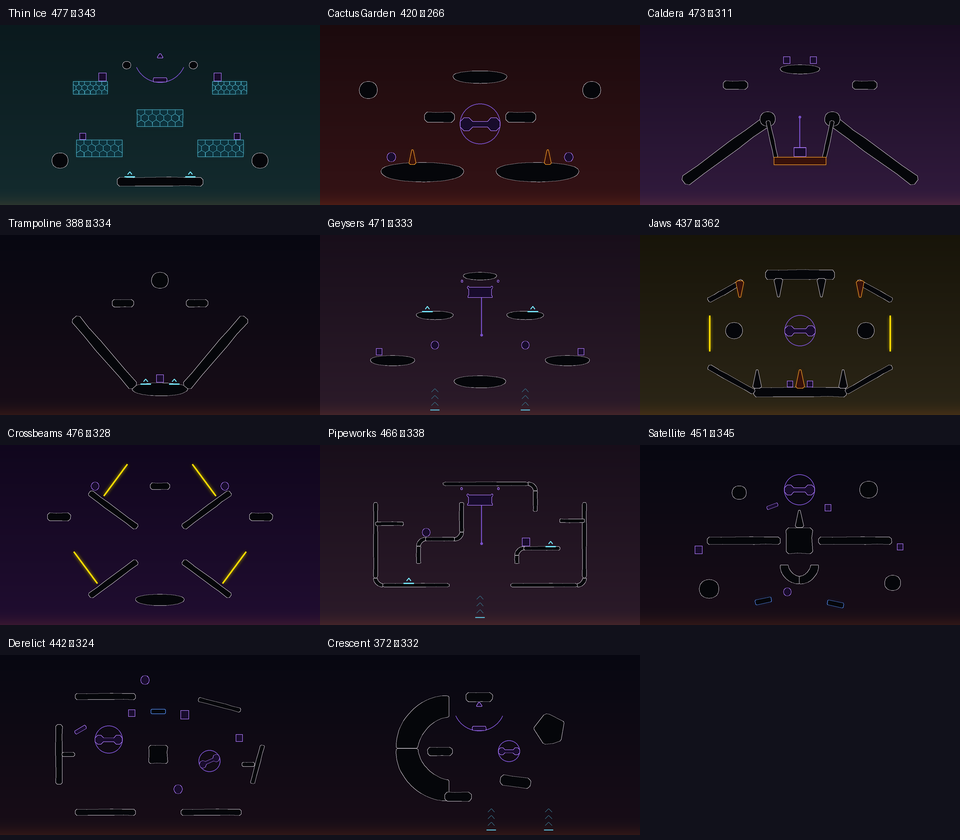
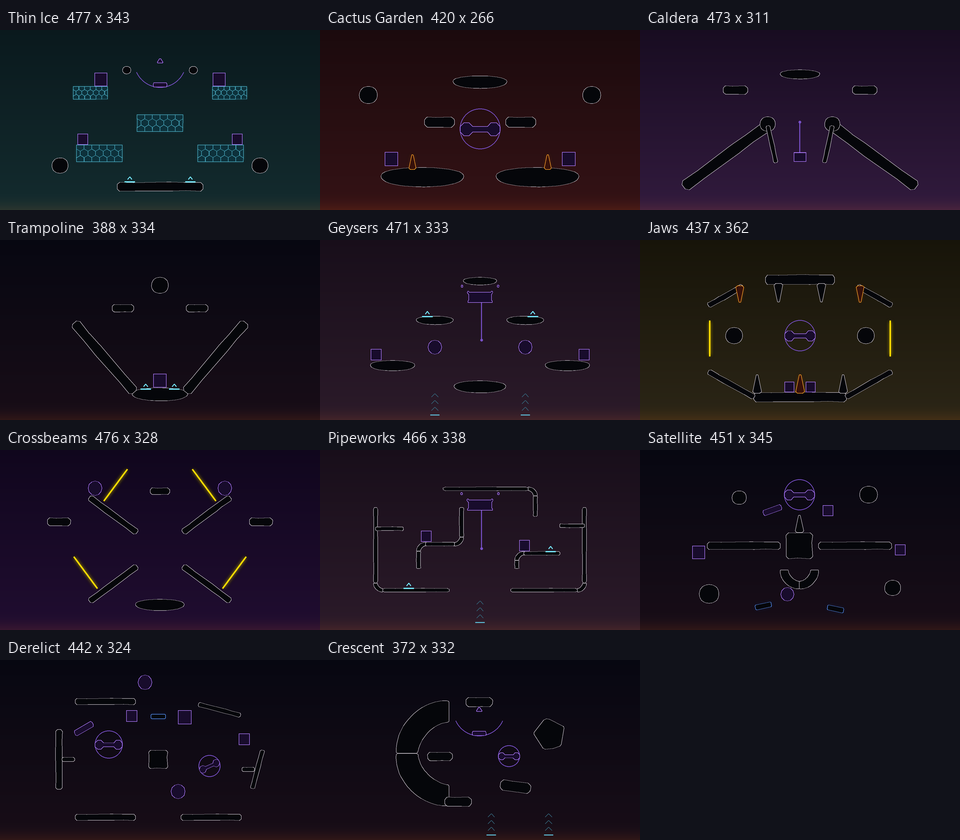
Keep crates full size, fix Cactus and Caldera, show Satellite's side lava
Crates and balls keep their prefab size on the compact maps, as on the
base-game arenas; each still rests where its scaled copy did, and parts or
spawns that the larger crates crowded on Thin Ice, Trampoline, Geysers, Jaws,
Pipeworks and Derelict moved to clear the checker.

Cactus Garden's rolling balls become crates. Caldera loses its crater lava and
the crates by the rare weapon. On maps with lava on every side, the host moves
the four walls in to 30 units past the camera box, like the base-game
zero-gravity arenas, so Satellite and Derelict show them.

diff --git a/surge/Maps/Tools/layouts.py b/surge/Maps/Tools/layouts.py
@@ -1,8 +1,9 @@
 """Source of the Surge map layouts: writes surge/Maps/Layouts/<id>.json, and with --preview draws each map.
 
 Coordinates are world units in the game's custom map scene (MapEditorBase). The playable box is about
-x -500..500, y -222..381; the bottom lava starts at y -222. Element names are the map editor's prefab names.
-Each map also gets a camera box fitted to its geometry, with the margins of the base-game arenas.
+x -500..500, y -222..381, where the lava starts. Element names are the map editor's prefab names.
+Each map also gets a camera box fitted to its geometry, with the margins of the base-game arenas. On maps with lava
+on every side, the game moves the four walls in to LAVA_GAP past that box (SurgeMaps.FitLava).
 Run: py surge/Maps/Tools/layouts.py --shapes <folder from shapes.py> [--preview] [--only id,id]
 """
 
@@ -78,7 +79,8 @@ def scaled(e, f):
 
 def surge_map(id, name, background, lava, elements, players, enemies, weapons, rare=(), beginner=False, scale=1.0,
               zero_gravity=False, parts=()):
-    """Coordinates are written at full size; scale shrinks the whole arena toward SCALE_PIVOT."""
+    """Coordinates are written at full size; scale shrinks the whole arena toward SCALE_PIVOT.
+    Loose crates and balls keep their prefab size, as on every base-game arena."""
     assert len(players) == 4, f"{id}: needs 4 player spawns"
     assert len(enemies) == ENEMY_SPAWN_COUNT, f"{id}: needs {ENEMY_SPAWN_COUNT} enemy spawns"
     px, py = SCALE_PIVOT
@@ -92,7 +94,11 @@ def surge_map(id, name, background, lava, elements, players, enemies, weapons, r
         items = [scaled(e, scale) for e in items]
         for g in parts:
             g["x"], g["y"] = round(px + (g["x"] - px) * scale, 2), round(py + (g["y"] - py) * scale, 2)
-            g["s"] = round(g["s"] * scale, 3)
+            if g["o"] in LOOSE:
+                # Its bottom stays where the scaled part's would have rested
+                g["y"] = round(g["y"] + LOOSE_HALF_HEIGHT[g["o"]] * g["s"] * (1 - scale), 2)
+            else:
+                g["s"] = round(g["s"] * scale, 3)
     MAPS.append({
         "id": id, "name": name, "background": background, "lava": lava, "beginner": beginner,
         "zeroGravity": zero_gravity, "elements": items, "parts": parts,
@@ -150,6 +156,8 @@ GADGET_SCALE = {"Box A": 1, "Box B": 1, "Box Wide": 1, "Ball": 1, "Big Spinner":
                 "HingePlatform": 2}
 # Loose bodies, which only have to start clear; like the base game's, they stay lost until the level reloads
 LOOSE = ("Box A", "Box B", "Box Wide", "Ball")
+# Their collider half-heights at prefab scale
+LOOSE_HALF_HEIGHT = {"Box A": 10.1, "Box B": 12.6, "Box Wide": 5.3, "Ball": 13.4}
 # Gadgets that hang under gravity, so they stay upright and need a gravity map
 HANGING = ("Swing", "SuspendedPrism", "DescendingCage", "HingePlatform")
 # Colliders that stay put while the rest of the gadget moves: anchors and hooks
@@ -200,11 +208,11 @@ surge_map(
     ],
     players=[(-40, 147), (40, 147), (-45, -74), (45, -74)],
     enemies=[(-360, 100), (360, 100), (-250, -135), (250, -135), (-360, 265), (360, 265)],
-    weapons=[(-55.0, -80.0), (55.0, -80.0), (-200.0, 38.0), (200.0, 38.0), (-240, 234), (240, 234)],
+    weapons=[(-55.0, -80.0), (55.0, -80.0), (-200.0, 38.0), (200.0, 38.0), (-255, 234), (255, 234)],
     rare=[(0, 147)],
     # Crates ride the shelves down when the ice breaks; a swing hangs between the top footholds
     parts=[
-        gadget("Box A", -255, 40), gadget("Box A", 255, 40), gadget("Box B", -190, 236), gadget("Box B", 190, 236),
+        gadget("Box A", -255, 40), gadget("Box A", 255, 40), gadget("Box B", -195, 236), gadget("Box B", 195, 236),
         gadget("Swing", 0, 305, s=0.6),
     ],
 )
@@ -222,30 +230,27 @@ surge_map(
     enemies=[(-365, 0), (365, 0), (-250, 235), (250, 235), (0, -199), (0, 267)],
     weapons=[(-330.0, 160.0), (330.0, 160.0), (-120.0, 76.0), (120.0, 76.0), (-100.0, -85.0), (100.0, -85.0)],
     rare=[(0, 192)],
-    # Tumbleweeds roll off the outer islands, and a windmill turns over the central gap
+    # Crates sit on the outer islands, and a windmill turns over the central gap
     parts=[
-        gadget("Ball", -262, -78), gadget("Ball", 262, -78), gadget("Big Spinner", 0, 20, motor=30),
+        gadget("Box A", -262, -78), gadget("Box A", 262, -78), gadget("Big Spinner", 0, 20, motor=30),
     ],
 )
 
-# A volcano with a magma pool in its crater and ledges above the rim
+# A volcano with an open crater and ledges above the rim
 surge_map(
     "caldera", "Caldera", MOUNTAIN, LAVA_BOTTOM, scale=0.58,
     elements=[
         bar(-360, -150, -100, 40), bar(360, -150, 100, 40),
         el("Ballish", -100, 45, 0, 0.8), el("Ballish", 100, 45, 0, 0.8),
         bar(-100, 40, -75, -75), bar(100, 40, 75, -75),
-        el("DeathZoneLongBoi", 0, -85, 0, 0.4),
         el("Platform", -200, 150, 0, 1.2), el("Platform", 200, 150, 0, 1.2), el("Pancake", 0, 200),
     ],
     players=[(-250, -26), (-150, 45), (150, 45), (250, -26)],
     enemies=[(-370, -40), (370, -40), (-300, 265), (300, 265), (135, 235), (-17, 293)],
     weapons=[(-200, 178), (200, 178), (-305, -75), (305, -75), (-165, 30), (165, 30)],
     rare=[(0, 253)],
-    # A lift rises out of the crater while something stands on it, and crates sit beside the rare weapon
-    parts=[
-        gadget("Moving Platform B", 0, -52), gadget("Box A", -41.2, 227.3), gadget("Box A", 41.2, 227.3),
-    ],
+    # A lift rises out of the crater while something stands on it
+    parts=[gadget("Moving Platform B", 0, -52)],
 )
 
 # A bowl with jump pads at the bottom that throw spiders up into the fight
@@ -257,7 +262,7 @@ surge_map(
         el("Platform", -130, 170, 0, 1.2), el("Platform", 130, 170, 0, 1.2), el("Ballish", 0, 250),
     ],
     players=[(-130, -30), (-200, 52), (130, -30), (200, 52)],
-    enemies=[(-315, -50), (315, -50), (-315, 250), (315, 250), (20, 361), (0, -20)],
+    enemies=[(-315, -50), (315, -50), (-315, 250), (315, 250), (20, 361), (0, -5)],
     weapons=[(-130, 198), (130, 198), (-212, 68), (212, 68), (-90, -82), (90, -82)],
     rare=[(0, 293)],
     # A crate sits between the pads; the launch path above the bowl stays open
@@ -282,7 +287,7 @@ surge_map(
     # The vents juggle a ball each; a cage under the top rock sinks to the middle and rises again
     parts=[
         gadget("Ball", -150, 10), gadget("Ball", 150, 10), gadget("DescendingCage", 0, 198),
-        gadget("Box A", -335, -12), gadget("Box A", 335, -12),
+        gadget("Box A", -345, -12), gadget("Box A", 345, -12),
     ],
 )
 
@@ -300,13 +305,13 @@ surge_map(
         el("Ballish", -230, 90), el("Ballish", 230, 90),
         gate(-315, 80, 315, 80, 90),
     ],
-    players=[(-80, -82), (80, -82), (-240, -48), (240, -48)],
+    players=[(-95, -82), (95, -82), (-240, -48), (240, -48)],
     enemies=[(-150, 370), (150, 370), (-85, 30), (85, 30), (-300, 305), (300, 305)],
     weapons=[(-110.0, -93.0), (110.0, -93.0), (-230.0, 135.0), (230.0, 135.0), (-100, 317), (100, 317)],
     rare=[(0, 317)],
     # A turning tongue fills the middle of the mouth, with crates loose on the lower jaw
     parts=[
-        gadget("Big Spinner", 0, 90, s=0.9, motor=-25), gadget("Box A", -35, -96), gadget("Box A", 35, -96),
+        gadget("Big Spinner", 0, 90, s=0.9, motor=-25), gadget("Box A", -37, -96), gadget("Box A", 37, -96),
     ],
 )
 
@@ -349,12 +354,12 @@ surge_map(
         + [el("AeroTube", 0, -195, 0, 1.5), el("Jump Pad", -232, -84), el("Jump Pad", 230, 36)]
     ),
     players=[(-300, -68), (-175, -73), (140, -63), (260, -63)],
-    enemies=[(-175, 150), (265, 205), (-120, -172), (30, -120), (-250, 280), (320, 345)],
-    weapons=[(-125, 80), (200, 70), (-145, -65), (200.0, -65.0), (-290.0, 130.0), (290.0, 140.0)],
+    enemies=[(-165, 155), (265, 205), (-120, -172), (30, -120), (-250, 280), (320, 345)],
+    weapons=[(-110, 80), (200, 70), (-145, -65), (200.0, -65.0), (-290.0, 130.0), (290.0, 140.0)],
     rare=[(30, 260)],
     # A cage under the top pipe sinks into the central gap and rises again; loose crates fill the pockets
     parts=[
-        gadget("DescendingCage", 0, 200), gadget("Ball", -175, 82), gadget("Box B", 150, 51),
+        gadget("DescendingCage", 0, 200), gadget("Box A", -175, 79), gadget("Box A", 145, 48.5),
     ],
 )
 
@@ -398,8 +403,8 @@ surge_map(
     # A powered turbine and a smaller displaced free rotor, with cargo adrift and an open floor breach
     parts=[
         gadget("Big Spinner", -150, 120, s=0.7, motor=35), gadget("Big Spinner", 155, 55, r=25, s=0.55),
-        gadget("Box A", -80, 200), gadget("Box B", 80, 195), gadget("Box Wide", -235, 150, r=30),
-        gadget("Box A", 245, 125), gadget("Ball", -40, 300), gadget("Ball", 60, -30),
+        gadget("Box A", -80, 200), gadget("Box B", 80, 195), gadget("Box Wide", -225, 165, r=30),
+        gadget("Box A", 260, 130), gadget("Ball", -40, 300), gadget("Ball", 60, -30),
     ],
 )
 
@@ -575,6 +580,23 @@ CAMERA_SIDE, CAMERA_BELOW, CAMERA_ABOVE = 25, 30, 65
 SCENE_CAMERA = (-465, 465, -185, 345)
 # The widest player spawn spread among the base-game arenas is 511
 MAX_PLAYER_SPREAD = 500
+# Where the custom map scene's lava starts: left, right, bottom, top
+SCENE_LAVA = (-500, 500, -222, 381)
+# Lava on every side closes in to this far past the camera box, so it stays in view as on the base-game zero-gravity
+# arenas. Keep in step with SurgeMaps.LavaGap.
+LAVA_GAP = 30
+
+
+def lava_edges(m, box):
+    """Where the map's lava starts (left, right, bottom, top)."""
+    if m["lava"] != LAVA_ALL:
+        return SCENE_LAVA
+    return box["xmin"] - LAVA_GAP, box["xmax"] + LAVA_GAP, box["ymin"] - LAVA_GAP, box["ymax"] + LAVA_GAP
+
+
+def near_lava(edges, x, y, margin):
+    x0, x1, y0, y1 = edges
+    return not (x0 + margin < x < x1 - margin and y0 + margin < y < y1 - margin)
 
 
 def camera(m, shapes):
@@ -587,7 +609,7 @@ def camera(m, shapes):
             "ymin": round(max(y0, min(ys) - CAMERA_BELOW), 1), "ymax": round(min(y1, max(ys) + CAMERA_ABOVE), 1)}
 
 
-def check_gadgets(m, safe):
+def check_gadgets(m, safe, lava):
     """Pads need footing; portals come in pairs, stay off beginner maps and drop their exits onto solid ground.
     Gates are paired with an exit of the same rotation, so velocity carries straight through."""
     problems = 0
@@ -617,7 +639,7 @@ def check_gadgets(m, safe):
         line = e["o"].startswith("PortalLine")
         # A point portal is checked at its center; a gate along its whole length, which may stand on a beam
         points = gate_points(e) if line else [(x, y)]
-        if any(not (-440 < px < 440 and -150 < py < 330) for px, py in points):
+        if any(near_lava(lava, px, py, 60) for px, py in points):
             print(f'{m["id"]}: portal at ({x}, {y}) is near the lava'); problems += 1
         if any(_inside(px, py, pts) or _distance(px, py, pts) < (3 if line else 20) for px, py in points for _, pts in safe):
             print(f'{m["id"]}: portal at ({x}, {y}) is jammed against a solid'); problems += 1
@@ -725,12 +747,14 @@ def check(maps, shapes):
         if not safe:
             print(f'{m["id"]}: no solid ground'); problems += 1
             continue
+        box = camera(m, shapes)
+        lava = lava_edges(m, box)
         for e in m["elements"]:
             kind = e["o"]
             if kind not in ("Player Spawn Point", "Weapon Spawner A", "Rare Weapon Spawner"):
                 continue
             x, y = e["x"], e["y"]
-            if not (-470 < x < 470 and -190 < y < 350):
+            if near_lava(lava, x, y, 30):
                 print(f'{m["id"]}: {kind} at ({x}, {y}) is near the lava'); problems += 1
             if any(_inside(x, y, pts) for _, pts in safe) or min(_distance(x, y, pts) for _, pts in safe) < 8:
                 print(f'{m["id"]}: {kind} at ({x}, {y}) is inside a solid'); problems += 1
@@ -743,11 +767,10 @@ def check(maps, shapes):
                 print(f'{m["id"]}: {kind} at ({x}, {y}) stands on a hazard'); problems += 1
             if HOVER in under:
                 print(f'{m["id"]}: {kind} at ({x}, {y}) stands on a floating platform that drifts'); problems += 1
-        problems += check_gadgets(m, safe)
+        problems += check_gadgets(m, safe, lava)
         players = [e["x"] for e in m["elements"] if e["o"] == "Player Spawn Point"]
         if max(players) - min(players) > MAX_PLAYER_SPREAD:
             print(f'{m["id"]}: player spawns are {max(players) - min(players):.0f} apart (at most {MAX_PLAYER_SPREAD})'); problems += 1
-        box = camera(m, shapes)
         problems += check_parts(m, shapes, safe, box)
         for p in m["enemies"]:
             # Enemies appear where the camera can show them, as on the base-game arenas
@@ -756,10 +779,10 @@ def check(maps, shapes):
             d = min(_distance(p["x"], p["y"], pts) for _, pts in safe)
             if d < 45 or any(_inside(p["x"], p["y"], pts) for _, pts in safe):
                 print(f'{m["id"]}: enemy spawn ({p["x"]}, {p["y"]}) is {d:.0f} from a solid'); problems += 1
-            if not (-470 < p["x"] < 470 and -190 < p["y"] < 350):
+            if near_lava(lava, p["x"], p["y"], 30):
                 print(f'{m["id"]}: enemy spawn ({p["x"]}, {p["y"]}) is near the lava'); problems += 1
         for o, pts in polys:
-            if any(not (-490 < x < 490 and -215 < y < 375) for x, y in pts):
+            if any(near_lava(lava, x, y, 7) for x, y in pts):
                 print(f'{m["id"]}: {o} reaches the lava'); problems += 1
                 break
     return problems
@@ -777,11 +800,12 @@ def preview(maps, out_dir, shapes):
         box = m.get("camera") or camera(m, shapes)
         ax.add_patch(plt.Rectangle((box["xmin"], box["ymin"]), box["xmax"] - box["xmin"], box["ymax"] - box["ymin"],
                                    fill=False, ec="#88f", ls=":"))
-        ax.axhspan(-300, -222, color="#ffcc88")
+        x0, x1, y0, y1 = lava_edges(m, box)
+        ax.axhspan(-300, y0, color="#ffcc88")
         if m["lava"] in (LAVA_TOP_BOTTOM, LAVA_ALL):
-            ax.axhspan(381, 460, color="#ffcc88")
+            ax.axhspan(y1, 460, color="#ffcc88")
         if m["lava"] in (LAVA_SIDES_BOTTOM, LAVA_ALL):
-            ax.axvspan(-560, -500, color="#ffcc88"); ax.axvspan(500, 560, color="#ffcc88")
+            ax.axvspan(-560, x0, color="#ffcc88"); ax.axvspan(x1, 560, color="#ffcc88")
         for o, pts in solids(m, shapes):
             col = "#e03030" if o.startswith("Death") else "#48c" if o == HOVER else "#4a7"
             ax.add_patch(Polygon(pts, closed=True, fc=col, ec="none", alpha=0.9))

diff --git a/surge/Maps/SurgeMaps.cs b/surge/Maps/SurgeMaps.cs
@@ -333,8 +333,44 @@ namespace SpiderSurge.Maps
                 spawner.RandomizeSpawns();
             }
             SurgeParts.Build(map);
+            FitLava(map);
             Physics2D.SyncTransforms();
             Rescan(map);
+        }
+
+        // The scene's lava on every side starts far outside a Surge map's camera box. As on the base-game zero-gravity
+        // arenas, the host moves each wall in to LavaGap past the box; its network transform carries the move to clients.
+        private const int LavaAllSides = 3;
+        private const float LavaGap = 30f; // layouts.py LAVA_GAP
+
+        private static void FitLava(SurgeMap map)
+        {
+            GameObject[] sets = CustomMapEditor.instance?.deathZones;
+            if (map.lava != LavaAllSides || map.camera == null || sets == null || map.lava >= sets.Length || sets[map.lava] == null) return;
+            MapRect box = map.camera;
+            var corners = new[]
+            {
+                new Vector2(box.xmin - LavaGap, box.ymin - LavaGap), new Vector2(box.xmax + LavaGap, box.ymin - LavaGap),
+                new Vector2(box.xmin - LavaGap, box.ymax + LavaGap), new Vector2(box.xmax + LavaGap, box.ymax + LavaGap),
+            };
+            foreach (DeathZone zone in sets[map.lava].GetComponentsInChildren<DeathZone>(true))
+            {
+                // Each wall faces the arena along its up direction; its surface is its colliders' furthest point that way
+                Transform wall = zone.transform;
+                Vector2 up = wall.up;
+                float surface = float.MinValue;
+                foreach (PolygonCollider2D collider in zone.GetComponents<PolygonCollider2D>())
+                {
+                    if (!collider.enabled) continue;
+                    foreach (Vector2 point in collider.points)
+                    {
+                        surface = Mathf.Max(surface, Vector2.Dot(up, wall.TransformPoint(point + collider.offset)));
+                    }
+                }
+                if (surface == float.MinValue) continue;
+                float target = corners.Min(corner => Vector2.Dot(up, corner));
+                wall.position += (Vector3)(up * (target - surface));
+            }
         }
 
         // The custom map scene's grid covers only part of its play area, so it is fitted to the map before the scan
